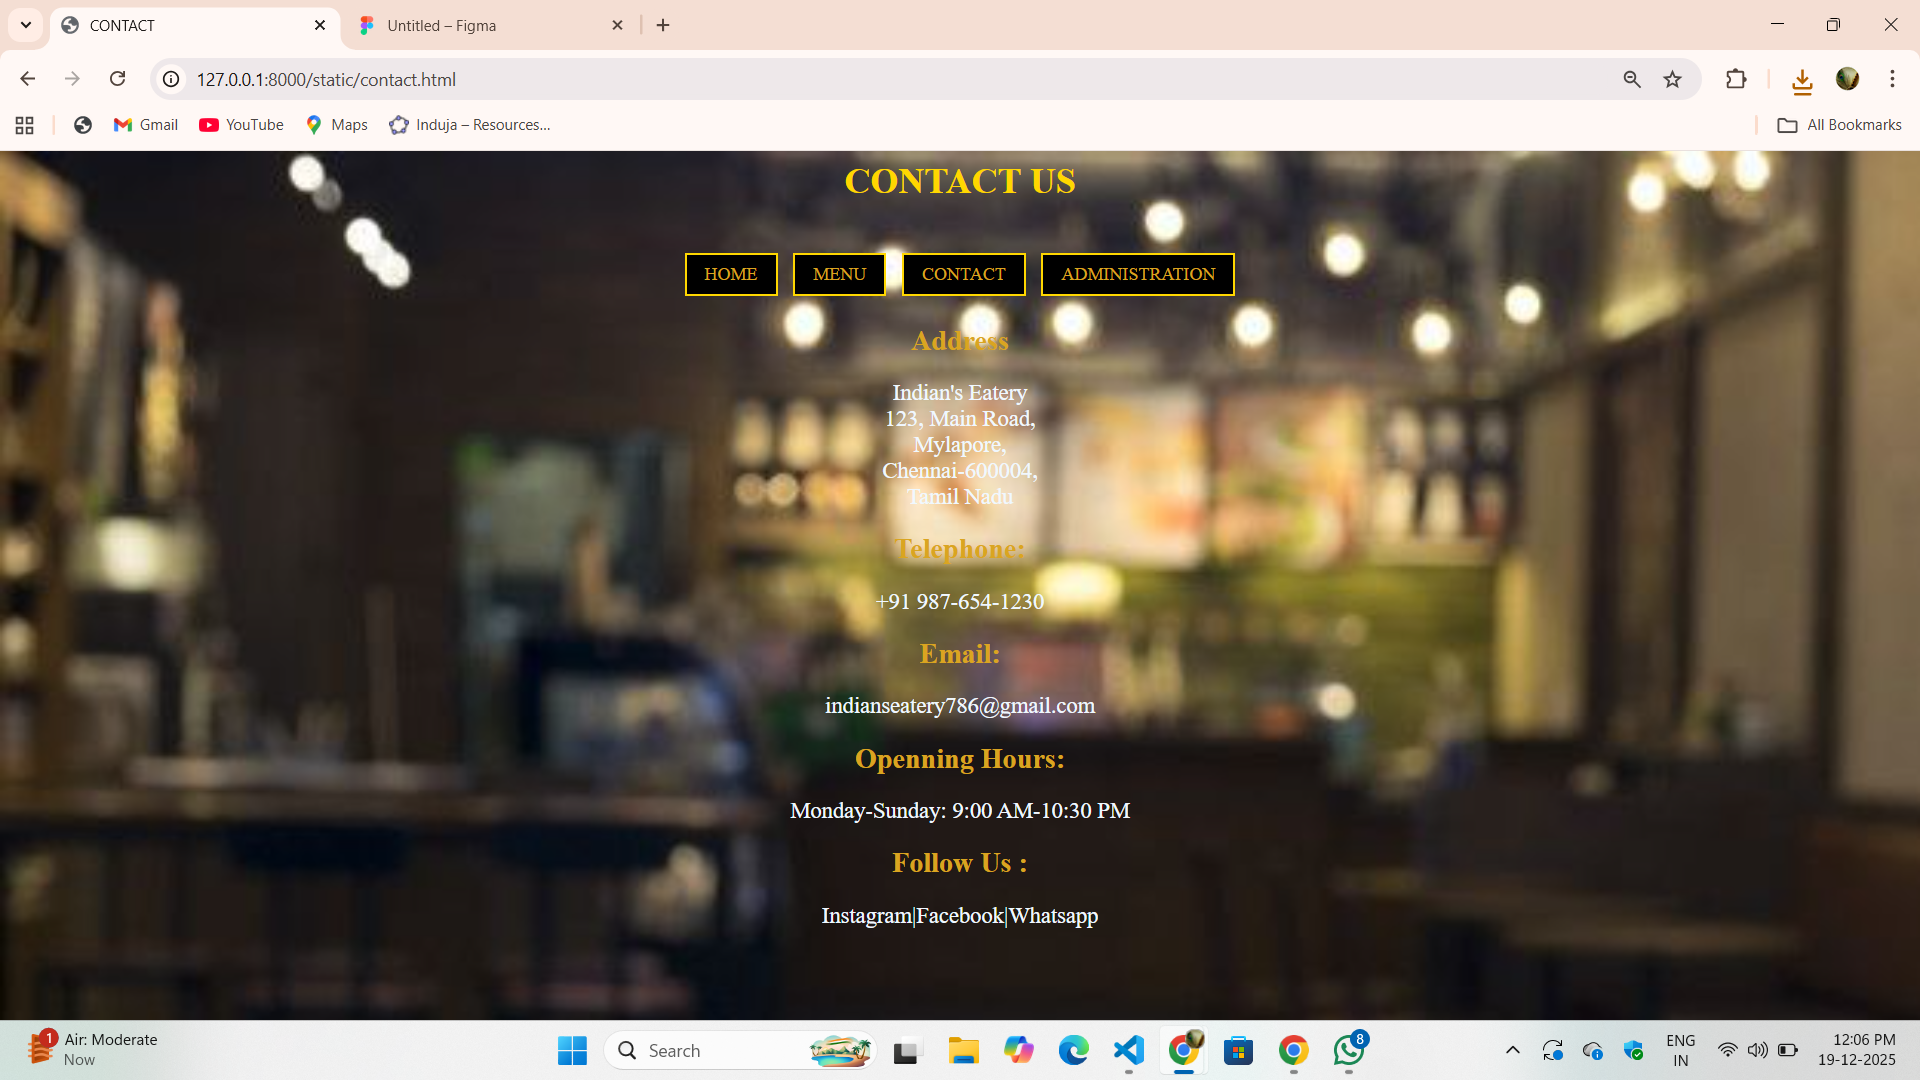
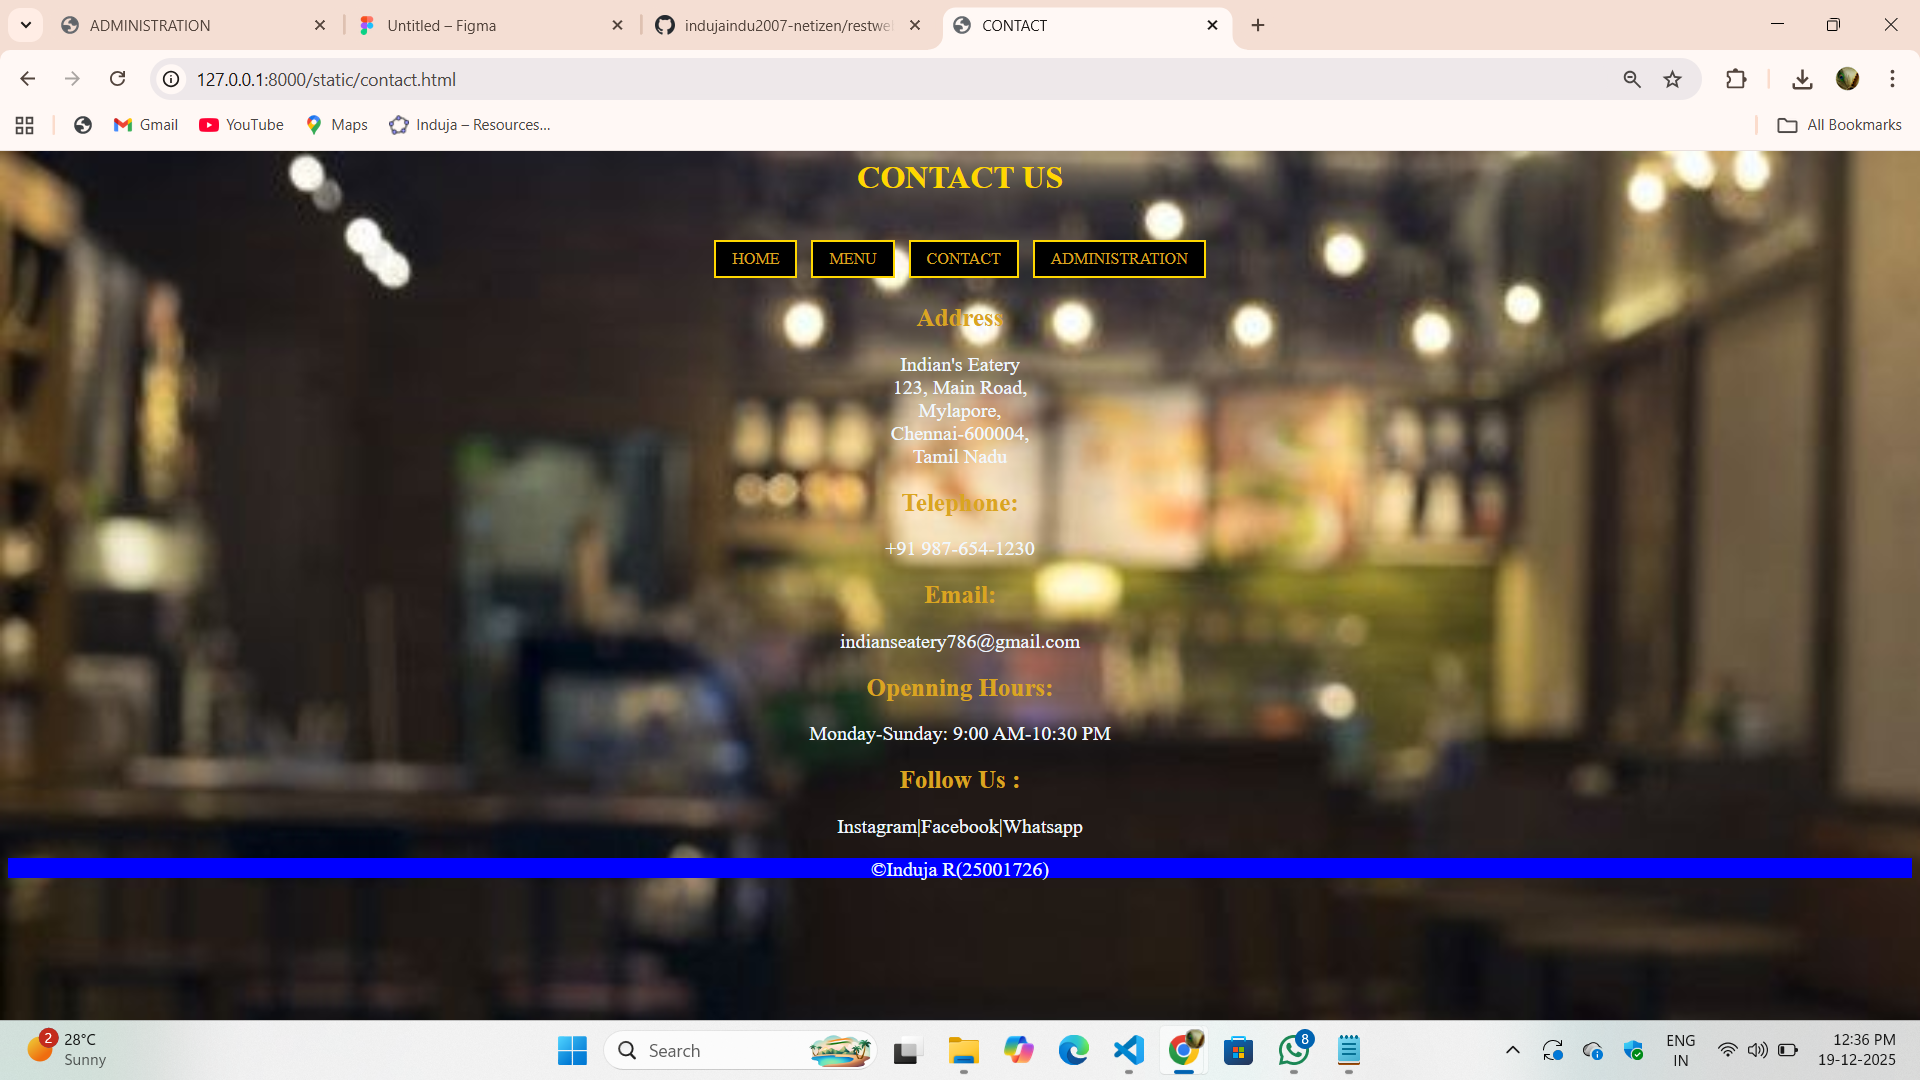
Success

diff --git a/indu/restaurent/static/menu.css b/indu/restaurent/static/menu.css
@@ -44,4 +44,11 @@ h2 {
     height: 150px;
     object-fit: cover;
 }
-
+footer
+{
+    background-color:blue;
+    text-align: center;
+    color: white;
+    height: 25px;
+    font-size: larger;
+}

diff --git a/indu/restaurent/static/home.css b/indu/restaurent/static/home.css
@@ -43,3 +43,11 @@ h3
     width: 500px;
     margin-bottom: 100px;
 }
+footer
+{
+    background-color:blue;
+    text-align: center;
+    color: white;
+    height: 25px;
+    font-size: larger;
+}

diff --git a/indu/restaurent/static/admin.css b/indu/restaurent/static/admin.css
@@ -43,3 +43,11 @@ a
     height: 250px;
     object-fit: cover;
 }
+footer
+{
+    background-color:blue;
+    text-align: center;
+    color: white;
+    height: 25px;
+    font-size: larger;
+}

diff --git a/indu/restaurent/static/contact.html b/indu/restaurent/static/contact.html
@@ -31,4 +31,7 @@
         <h2>Follow Us :</h2>
         <p>Instagram|Facebook|Whatsapp</p>
     </body>
+    <footer>
+        <p>&copy;Induja R(25001726)</p>
+    </footer>
 </html>

diff --git a/indu/restaurent/static/home.html b/indu/restaurent/static/home.html
@@ -20,4 +20,7 @@
             Every meal served with warmth and love.
         </h3>
     </body>
+    <footer>
+        <p>&copy;Induja R(25001726)</p>
+    </footer>
 </html>

diff --git a/indu/restaurent/static/admin.html b/indu/restaurent/static/admin.html
@@ -47,4 +47,7 @@
         
         </div>
     </body>
+    <footer>
+        <p>&copy;Induja R(25001726)</p>
+    </footer>
 </html>

diff --git a/indu/restaurent/static/menu.html b/indu/restaurent/static/menu.html
@@ -56,5 +56,8 @@
 
         </div>  
     </body>
+    <footer>
+        <p>&copy;Induja R(25001726)</p>
+    </footer>
     
 </html>

diff --git a/README.md b/README.md
@@ -53,6 +53,9 @@ home.html
             Every meal served with warmth and love.
         </h3>
     </body>
+    <footer>
+        <p>&copy;Induja R(25001726)</p>
+    </footer>
 </html>
 
 home.css
@@ -101,6 +104,14 @@ h3
     border-radius: 5px;
     width: 500px;
     margin-bottom: 100px;
+}
+footer
+{
+    background-color:blue;
+    text-align: center;
+    color: white;
+    height: 25px;
+    font-size: larger;
 }
 
 menu.html
@@ -159,11 +170,11 @@ menu.html
                 <h3>Rasamalai</h3>
                 <h4> Price=Rs 110</h4>
             </div>
-            
-
         </div>  
     </body>
-    
+    <footer>
+        <p>&copy;Induja R(25001726)</p>
+    </footer>
 </html>
 
 menu.css
@@ -213,6 +224,14 @@ h2 {
     height: 150px;
     object-fit: cover;
 }
+footer
+{
+    background-color:blue;
+    text-align: center;
+    color: white;
+    height: 25px;
+    font-size: larger;
+}
 
 contact.html
 
@@ -249,6 +268,9 @@ contact.html
         <h2>Follow Us :</h2>
         <p>Instagram|Facebook|Whatsapp</p>
     </body>
+    <footer>
+        <p>&copy;Induja R(25001726)</p>
+    </footer>
 </html>
 
 contact.css
@@ -350,6 +372,9 @@ admin.html
         
         </div>
     </body>
+    <footer>
+        <p>&copy;Induja R(25001726)</p>
+    </footer>
 </html>
 
 admin.css
@@ -399,6 +424,14 @@ a
     height: 250px;
     object-fit: cover;
 }
+footer
+{
+    background-color:blue;
+    text-align: center;
+    color: white;
+    height: 25px;
+    font-size: larger;
+}
 
 ```
 
@@ -407,7 +440,7 @@ a
 ![alt text](home.png)
 ![alt text](menu.png)
 ![alt text](contact.png)
-![alt text](admin.png)
+![alt text](<admin (1).png>)
 
 ## RESULT:
 The program for designing software company website using HTML and CSS is completed successfully.
